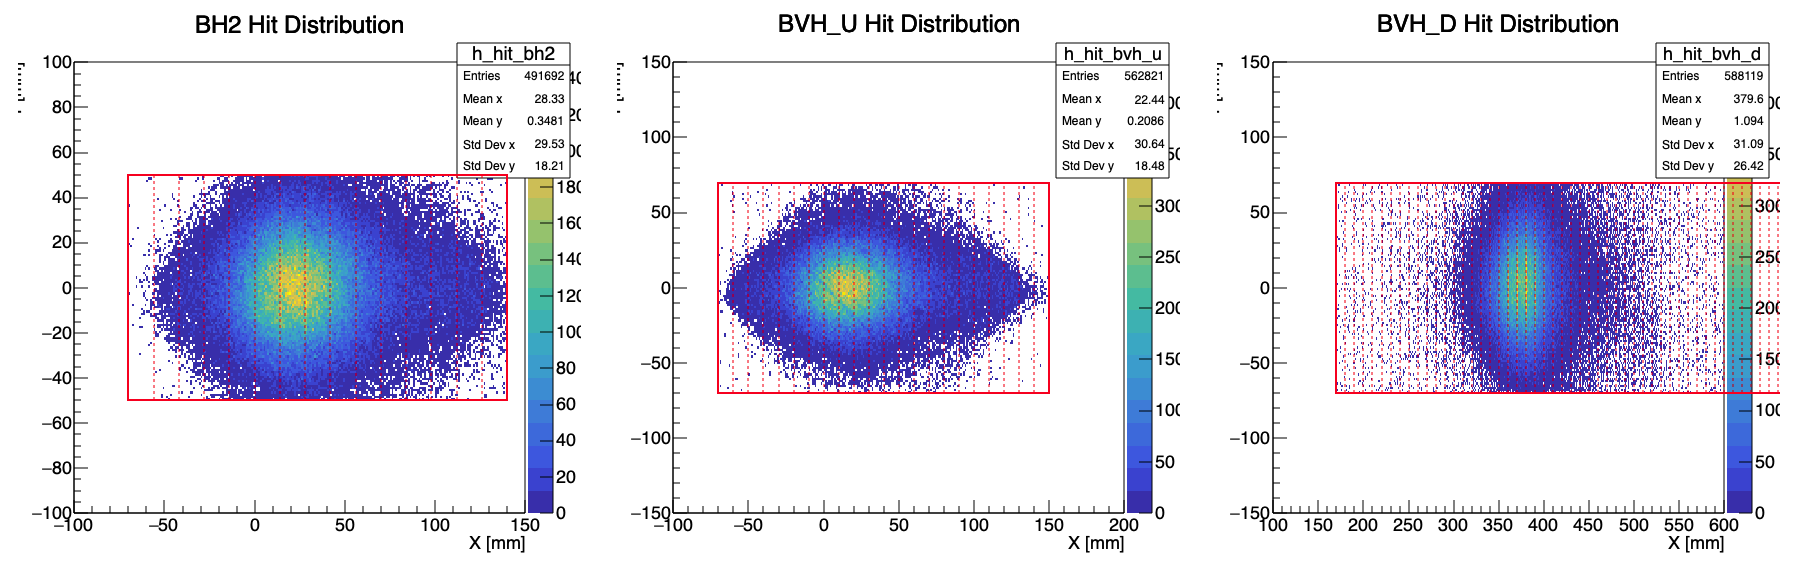
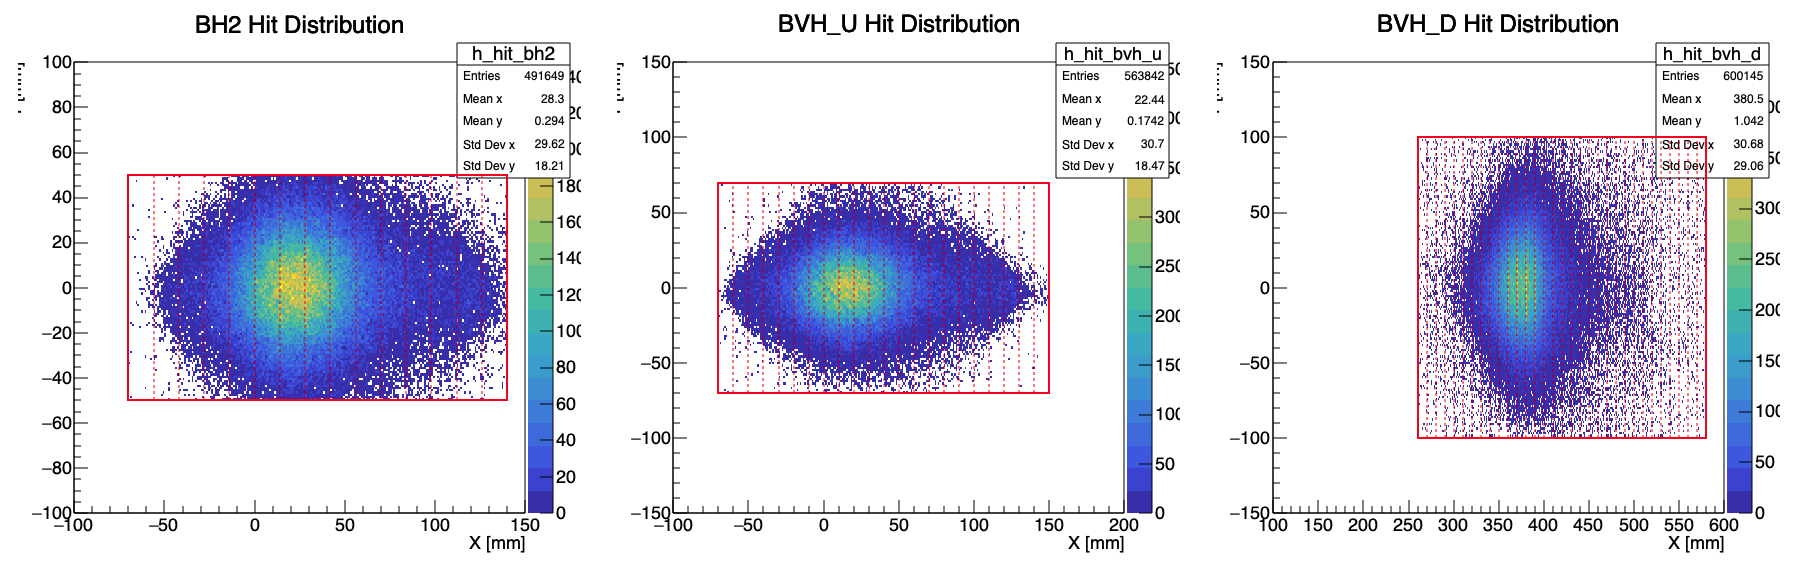
250 mm

diff --git a/root/BVH_3D.C b/root/BVH_3D.C
@@ -41,7 +41,7 @@
 // -------- Detector Segmentation --------
 static const int N_BH2  = 15; // 0..14
 static const int N_BVHU = 22; // 0..21
-static const int N_BVHD = 50; // 0..31
+static const int N_BVHD = 32; // 0..31
 
 // -------- Helper: unique segment indices passing e-dep cut --------
 static inline void get_unique_hits(const std::vector<TParticle>* v,
@@ -62,7 +62,7 @@ static inline void get_unique_hits(const std::vector<TParticle>* v,
 }
 
 // ================== Main Analysis Function ==================
-void BVH_3D(const char* fname = "E45_segment_50_420.root",
+void BVH_3D(const char* fname = "E45_segment_32_420_200mm.root",
             double ecutBH2MeV = 0.10,
             double ecutUMeV   = 0.04,
             double ecutDMeV   = 0.04,
@@ -286,6 +286,6 @@ gInterpreter->GenerateDictionary("vector<TParticle>", "TParticle.h;vector");
 // ================== Convenience wrapper ==================
 void run_analysis() {
   int event_threshold = 1; // (1) change here to highlight bins >=300 counts
-  BVH_3D("E45_segment_50_420.root", 0.10, 0.04, 0.04, event_threshold);
+  BVH_3D("E45_segment_32_420_200mm.root", 0.10, 0.04, 0.04, event_threshold);
   std::cout << "[Config] Red boxes mark bins with counts >= " << event_threshold << "." << std::endl;
 }

diff --git a/root/view_detectors_BVH.C b/root/view_detectors_BVH.C
@@ -29,7 +29,7 @@ void draw_bvh_u_overlay(double center_x) { // ★ n=22 로 수정
 }
  
 void draw_bvh_d_overlay(double center_x) { // ★ n=40 유지
-  const double seg_w = 10.0, seg_h = 140.0; const int n_segs = 50;
+  const double seg_w = 10.0, seg_h = 200.0; const int n_segs = 32;
   const double total_w = n_segs*seg_w, start_x = center_x - total_w/2.0;
   auto *outline = new TBox(start_x, -seg_h/2., start_x+total_w, seg_h/2.);
   outline->SetFillStyle(0); outline->SetLineColor(kRed); outline->SetLineWidth(2); outline->Draw("SAME");
@@ -44,7 +44,7 @@ void view_detectors_BVH() {
   gStyle->SetOptStat(1111);
   gStyle->SetPalette(kBird);
 
-  TFile *f = TFile::Open("E45_segment_50_420.root","READ");
+  TFile *f = TFile::Open("E45_segment_32_420_200mm.root","READ");
   if (!f || f->IsZombie()) { Error("view_detectors_BVH","cannot open file"); return; }
   auto *tree = (TTree*)f->Get("g4hyptpc");
   if (!tree) { Error("view_detectors_BVH","tree g4hyptpc not found"); return; }
